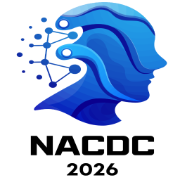
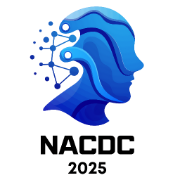
changes in files

diff --git a/src/components/Hero/index.tsx b/src/components/Hero/index.tsx
@@ -7,9 +7,9 @@ import { useEffect, useRef, useState } from "react";
 // const slides = [
 //   {
 //     image: "/images/hero/hero_image1.png",
-//     title: "NACDC 2026 Begins Here!",
+//     title: "NACDC 2025 Begins Here!",
 //     subtitle: "The Premier AI, Data Science, and Cloud Computing Conference",
-//     date: "January 14-16, 2026 · Vancouver, Canada",
+//     date: "January 14-16, 2025 · Vancouver, Japan",
 //     cta1: { label: "Register Now", link: "/registration" },
 //     cta2: { label: "View Schedule", link: "/schedule" },
 //   },
@@ -157,10 +157,10 @@ const Hero = () => {
             className="max-w-3xl"
           >
             <h1 className="text-4xl sm:text-5xl md:text-6xl font-bold text-[#fff] mb-4">
-              NACDC 2026 
+              NACDC 2025 
             </h1>
             <h2 className="text-xl sm:text-2xl md:text-3xl font-medium text-[#fff] mb-2">
-              North American Conference on Computational Intelligence, Data Science, and Cloud Computing
+              NexGen Asian Conference on Intelligent Computing, Data Science and Cloud Computing
             </h2>
             <p className="text-[#fff] mb-8">{slide.date}</p>
             <div className="flex flex-col sm:flex-row justify-center items-center gap-4">
@@ -182,28 +182,28 @@ const Hero = () => {
         <div className="flex-1 flex items-center justify-center">
           <div className="max-w-5xl w-full px-4 md:px-6 lg:px-8 pt-20 pb-10 sm:pt-20 sm:pb-6 md:pt-16 md:pb-10 lg:pt-17 lg:pb-14">
             <h1 className="text-4xl sm:text-4xl md:text-5xl lg:text-6xl font-extrabold text-[#fff] leading-tight mb-4 drop-shadow-md">
-              NACDC 2026
+              NACDC 2025
             </h1>
 
             <h2 className="text-lg sm:text-2xl md:text-3xl text-[#fff] font-medium mb-4 sm:mb-6 leading-relaxed drop-shadow-sm">
-              North American Conference on <br className="hidden sm:inline" />
+              NexGen Asian Conference on  <br className="hidden sm:inline" />
               <span className="text-[#bccaff] font-semibold">
-                Computational Intelligence, Data Science, and Cloud Computing
+                Intelligent Computing, Data Science and Cloud Computing
               </span>
             </h2>
 
             <p className="text-[#fff] text-base sm:text-lg md:text-xl mb-2 sm:mb-3 font-light">
-              January 14 – 16, 2026
+              December 8-10, 2025
             </p>
 
             <p className="text-[#fff] text-base sm:text-lg md:text-xl mb-4 sm:mb-6 font-light">
-              Canada
+              Japan
             </p>
 
             <p className="text-[#fff] text-sm sm:text-base md:text-lg leading-relaxed mb-8 max-w-4xl mx-auto font-medium">
               Organized by <br />
               <span className="font-bold">
-                Department of Information Technology & Department of Computer Science & Engineering
+                Department of Computer Science and Engineering and Information Technology
               </span> <br />
               Institute of Engineering & Management, Kolkata, India
             </p>

diff --git a/src/components/About/BlogSideBar1.tsx b/src/components/About/BlogSideBar1.tsx
@@ -9,7 +9,7 @@ const BlogSidebar1 = ({ onSelect }: { onSelect: (blog: "blog1" | "blog2" | "blog
         {/* Heading */}
         <div className="text-center mb-12">
           <h1 className="text-3xl sm:text-4xl font-extrabold text-gray-900 leading-tight mb-4">
-            North American Conference on Computational Intelligence, Data Science, and Cloud Computing
+            NexGen Asian Conference on Intelligent Computing, Data Science and Cloud Computing
           </h1>
           <div className="w-50 h-1 mx-auto bg-gradient-to-r from-[#4A6CF7] via-indigo-400 to-[#4A6CF7] rounded shadow-md" />
         </div>
@@ -30,12 +30,12 @@ const BlogSidebar1 = ({ onSelect }: { onSelect: (blog: "blog1" | "blog2" | "blog
             </div>
 
             <p className="text-lg text-gray-700 leading-relaxed">
-              The North American Conference on Computational Intelligence, Data Science, and Cloud Computing (NACDC 2026) is an international conference dedicated to bringing together leading academics,
-              researchers, practitioners, and industry experts from across the globe. The conference will be held in hybrid mode from January 14 to 16, 2026 in Canada..
+              The NexGen Asian Conference on Intelligent Computing, Data Science and Cloud Computing (NACDC 2025) is an international conference dedicated to bringing together leading academics,
+              researchers, practitioners, and industry experts from across the globe. The conference will be held in hybrid mode from December 8-10, 2025 in Japan..
             </p>
 
             <p className="text-lg text-gray-700 leading-relaxed">
-              NACDC 2026 is poised to be a significant platform for the discussion, dissemination, and exchange of the latest trends, innovations, and future directions in Computational Intelligence, Artificial Intelligence (AI), Data Science, Big Data Analytics, Cloud Computing, and Emerging Technologies.
+              NACDC 2025 is poised to be a significant platform for the discussion, dissemination, and exchange of the latest trends, innovations, and future directions in Computational Intelligence, Artificial Intelligence (AI), Data Science, Big Data Analytics, Cloud Computing, and Emerging Technologies.
             </p>
 
             <p className="text-lg text-gray-700 leading-relaxed">
@@ -88,11 +88,11 @@ const BlogSidebar1 = ({ onSelect }: { onSelect: (blog: "blog1" | "blog2" | "blog
               <ul className="space-y-4 text-gray-700">
                 <li className="flex items-center gap-3">
                   <FaCalendarAlt className="text-[#4A6CF7]" />
-                  <span>January 14–16, 2026</span>
+                  <span>December 8-10, 2025</span>
                 </li>
                 <li className="flex items-center gap-3">
                   <FaMapMarkerAlt className="text-[#4A6CF7]" />
-                  <span>Canada (Venue TBA)</span>
+                  <span>Japan (Venue TBA)</span>
                 </li>
                 {/* <li className="flex items-center gap-3">
                   <FaClock className="text-[#4A6CF7]" />

diff --git a/src/components/Features/index.tsx b/src/components/Features/index.tsx
@@ -4,8 +4,8 @@ import SectionTitle from "../Common/SectionTitle";
 import TracksList from "@/components/Tracks/TracksList";
 
 const Features = () => {
-  const para = `The North American Conference on Computational Intelligence, Data Science, and Cloud Computing (NACDC 2026) is an international conference dedicated to bringing together leading academics, 
-  researchers, practitioners, and industry experts from across the globe. The conference will be held in hybrid mode from January 14 to 16, 2026 in Canada.`;
+  const para = `The NexGen Asian Conference on Intelligent Computing, Data Science and Cloud Computing (NACDC 2025) is an international conference dedicated to bringing together leading academics, 
+  researchers, practitioners, and industry experts from across the globe. The conference will be held in hybrid mode from December 8 to 10, 2025 in Japan.`;
 
   return (
     <section id="features" className="relative pt-16 pb-6 md:pt-20 md:pb-8 lg:pt-28 bg-[#fff] z-10">
@@ -13,13 +13,13 @@ const Features = () => {
         {/* Welcome Section */}
         <div className="mb-16">
           <SectionTitle
-            title="Welcome to NACDC 2026"
+            title="Welcome to NACDC 2025"
             paragraph={para}
             center
             width="1100px"
           />
           <p className="text-base text-body-color md:text-lg py-3 text-center max-w-6xl mx-auto">
-            NACDC 2026 is poised to be a significant platform for the discussion, dissemination, and exchange of the latest trends, innovations, and future directions in Computational Intelligence, Artificial Intelligence (AI), Data Science, Big Data Analytics, Cloud Computing, and Emerging Technologies.
+            NACDC 2025 is poised to be a significant platform for the discussion, dissemination, and exchange of the latest trends, innovations, and future directions in Computational Intelligence, Artificial Intelligence (AI), Data Science, Big Data Analytics, Cloud Computing, and Emerging Technologies.
           </p>
           <p className="text-base text-body-color md:text-lg py-3 text-center max-w-6xl mx-auto">
             In an era where intelligent computing and data-driven technologies are rapidly reshaping industries, the conference offers a unique venue for bridging the gap between theoretical advancements and real-world applications.

diff --git a/src/components/Committee/CommitteeList.tsx b/src/components/Committee/CommitteeList.tsx
@@ -53,15 +53,20 @@ const committeeList = {
       "Pranav Bhasin, Amazon, United States",
       "Puru Pahuja, Salesforce, United States",
       "Nirmalya Thakur, South Dakota School of Mines and Technology, United States",
-      "Raghavan Chellappan, ByteSafe, United States"
+      "Raghavan Chellappan, ByteSafe, United States",
+      "Beepa Bose, Slalom,Minnesota, United States"
     ],
     "Organizing Committee": {
-      "General Chair": [],
+      "General Chair": [
+        "Satyajit Chakrabarti, Institute of Engineering & Management, Kolkata, India",
+      ],
       "Convenor": [
         "Moutushi Singh, Institute of Engineering & Management, Kolkata, India",
         "Baisakhi Das, Institute of Engineering & Management, Kolkata, India",
       ],
-      "Technical Program Chair": [],
+      "Technical Program Chair": [
+        "Rajashree Paul, Institute of Engineering & Management, Kolkata, India"
+      ],
       "Technical Program Co-Chair": [
         "Sanchita Ghosh, Institute of Engineering & Management, Kolkata, India",
       ],
@@ -95,7 +100,7 @@ export default function CommitteeList() {
   return (
     <section className="py-16 px-4">
       <div className="container mx-auto max-w-7xl">
-        <SectionTitle title="NACDC 2026 Committee" paragraph="" center/>
+        <SectionTitle title="NACDC 2025 Committee" paragraph="" center/>
 
         <div className="mt-10 gap-10">
           {Object.entries(sections).map(([title, members]) => (

diff --git a/src/components/Countdown/ImpDates.tsx b/src/components/Countdown/ImpDates.tsx
@@ -101,12 +101,12 @@ export default function ImpDates() {
         <div className="overflow-x-auto:hidden rounded-md border border-gray-200 shadow-sm">
           <CreateTable
             datas={[
-              { col1: 'Full Paper Submission:', col2: '25th September 2025' },
-              { col1: 'Acceptance Notification:', col2: '20th November 2025' },
-              { col1: 'Final/Camera-ready Paper Submission:', col2: '10th December 2025' },
-              { col1: 'Registration:', col2: '1st December 2025' },
-              { col1: 'Presentation Submission:', col2: '4th January 2026' },
-              { col1: 'Conference:', col2: '14 - 16 January 2026' },
+              { col1: 'Full Paper Submission:', col2: '15th September 2025' },
+              { col1: 'Acceptance Notification:', col2: '31st October 2025' },
+              { col1: 'Final/Camera-ready Paper Submission:', col2: '14th November 2025' },
+              { col1: 'Registration:', col2: '7th November 2025' },
+              { col1: 'Presentation Submission:', col2: '20th November 2025' },
+              { col1: 'Conference:', col2: '8 - 10 December 2025' },
             ]}
           />
         </div>

diff --git a/src/components/About/BlogSideBar3.tsx b/src/components/About/BlogSideBar3.tsx
@@ -11,7 +11,7 @@ const BlogSidebar3 = ({ onSelect }: { onSelect: (blog: "blog1" | "blog2" | "blog
         {/* Header */}
         <div className="text-center mb-12">
           <h1 className="text-3xl sm:text-4xl font-extrabold text-gray-900 leading-tight mb-4">
-            The University of British Columbia, Vancouver, Canada
+            The University of British Columbia, Vancouver, Japan
           </h1>
           <div className="w-50 h-1 mx-auto bg-gradient-to-r from-[#4A6CF7] via-indigo-400 to-[#4A6CF7] rounded shadow-md" />
         </div>
@@ -67,7 +67,7 @@ const BlogSidebar3 = ({ onSelect }: { onSelect: (blog: "blog1" | "blog2" | "blog
                   className="mb-6 pb-6 border-b border-gray-100 cursor-pointer transition-all duration-300 transform hover:scale-[1.02] hover:shadow-lg rounded-lg hover:bg-blue-50"
                 >
                   <RelatedPost
-                    title="NACDC 2026"
+                    title="NACDC 2025"
                     image="/images/blog/NACDC.png"
                     slug="#"
                   />

diff --git a/src/components/Timeline/VerticalTimelineCard.tsx b/src/components/Timeline/VerticalTimelineCard.tsx
@@ -116,7 +116,7 @@ export default function VerticalTimelineCard() {
             background: "linear-gradient(135deg, #E91E63, #FF6090)",
           }}
           contentArrowStyle={{ borderRight: "7px solid #E91E63" }}
-          date="4 January 2026"
+          date="4 January 2025"
           dateClassName="text-white font-semibold"
           iconStyle={{
             background: "linear-gradient(135deg, #E91E63, #FF6090)",
@@ -138,7 +138,7 @@ export default function VerticalTimelineCard() {
             background: "linear-gradient(135deg, #3a7bd5, #00d2ff)",
           }}
           contentArrowStyle={{ borderRight: "7px solid #3a7bd5" }}
-          date="14–16 January 2026"
+          date="14–16 January 2025"
           dateClassName="text-white font-semibold"
           iconStyle={{
             background: "linear-gradient(135deg, #3a7bd5, #00d2ff)",

diff --git a/src/components/Footer/index.tsx b/src/components/Footer/index.tsx
@@ -26,13 +26,13 @@ const Footer = () => {
             
             {/* Column 1: NACDC Details */}
             <div className="lg:w-1/3">
-              <div className="text-2xl font-bold text-[#000] mb-3">NACDC 2026</div>
+              <div className="text-2xl font-bold text-[#000] mb-3">NACDC 2025</div>
               <p className="text-base text-body-color mb-4">
                 For detailed registration guidelines, submission deadlines, and travel information, please visit the official website.
               </p>
               <p className="text-base text-body-color">
-                📅 January 14 – 16, 2026<br /><br />
-                📍 Canada
+                📅 December 8-10, 2025<br /><br />
+                📍 Japan
               </p>
             </div>
 

diff --git a/src/app/callForPapers/page.tsx b/src/app/callForPapers/page.tsx
@@ -7,7 +7,7 @@ import SmoothScrollWrapper from "@/components/Tracks/SmoothScrollWrapper";
 
 export const metadata: Metadata = {
   title: "Call For Papers",
-  description: "This is the Page for Papers of NACDC 2026",
+  description: "This is the Page for Papers of NACDC 2025",
 };
 
 export default function CallForPaperspage() {
@@ -19,7 +19,7 @@ export default function CallForPaperspage() {
       
       <Breadcrumb
         pageName="Call For the Papers"
-        description="North American Conference on Computational Intelligence, Data Science, and Cloud Computing (NACDC 2026)"
+        description="NexGen Asian Conference on Intelligent Computing, Data Science and Cloud Computing (NACDC 2025)"
       />
       <PaperDetails />
       <PaperTracks />

diff --git a/src/app/layout.tsx b/src/app/layout.tsx
@@ -39,9 +39,9 @@ export default function RootLayout({
         head.js. Find out more at https://beta.nextjs.org/docs/api-reference/file-conventions/head
       */}
       <head>
-        <title>NACDC 2026</title>
+        <title>NACDC 2025</title>
         <meta name="viewport" content="width=device-width, initial-scale=1" />
-        <meta name="description" content="North American Conference on Data and Cloud 2026" />
+        <meta name="description" content="NexGen Asian Conference on Intelligent Computing, Data Science and Cloud Computing 2025" />
         <link rel="icon" href="/favicon.ico" />
         <link rel="apple-touch-icon" href="/apple-touch-icon.png" />
         <link rel="icon" type="image/png" sizes="32x32" href="/favicon-32x32.png" />

diff --git a/src/app/committee/page.tsx b/src/app/committee/page.tsx
@@ -6,7 +6,7 @@ import CommitteeList from '@/components/Committee/CommitteeList';
 
 export const metadata: Metadata = {
   title: "Committee NACDC ",
-  description: "This is Committee Page for NACDC 2026",
+  description: "This is Committee Page for NACDC 2025",
   // other metadata
 };
 
@@ -15,7 +15,7 @@ export default function CommitteePage() {
     <div>
       <Breadcrumb
         pageName="Committee of NACDC"
-        description="North American Conference on Computational Intelligence, Data Science, and Cloud Computing (NACDC 2026) Committee List"
+        description="NexGen Asian Conference on Intelligent Computing, Data Science and Cloud Computing (NACDC 2025) Committee List"
       />
       <CommitteeList/>
     </div>

diff --git a/src/app/registration/page.tsx b/src/app/registration/page.tsx
@@ -6,7 +6,7 @@ import RegistrationDetails from '@/components/Registrations/RegistrationDetails'
 
 export const metadata: Metadata = {
   title: "Registration NACDC",
-  description: "This is Registration Page for NACDC 2026",
+  description: "This is Registration Page for NACDC 2025",
   // other metadata
 };
 
@@ -15,7 +15,7 @@ export default function RegistrationPage() {
     <div>
       
       <Breadcrumb 
-        pageName='Registration NACDC 2026'
+        pageName='Registration NACDC 2025'
         description='Grab the oppertunity of experiencing the interdisciplinary collaborations with renowned researchers'
       />
       {/* <ComingSoon/> */}
